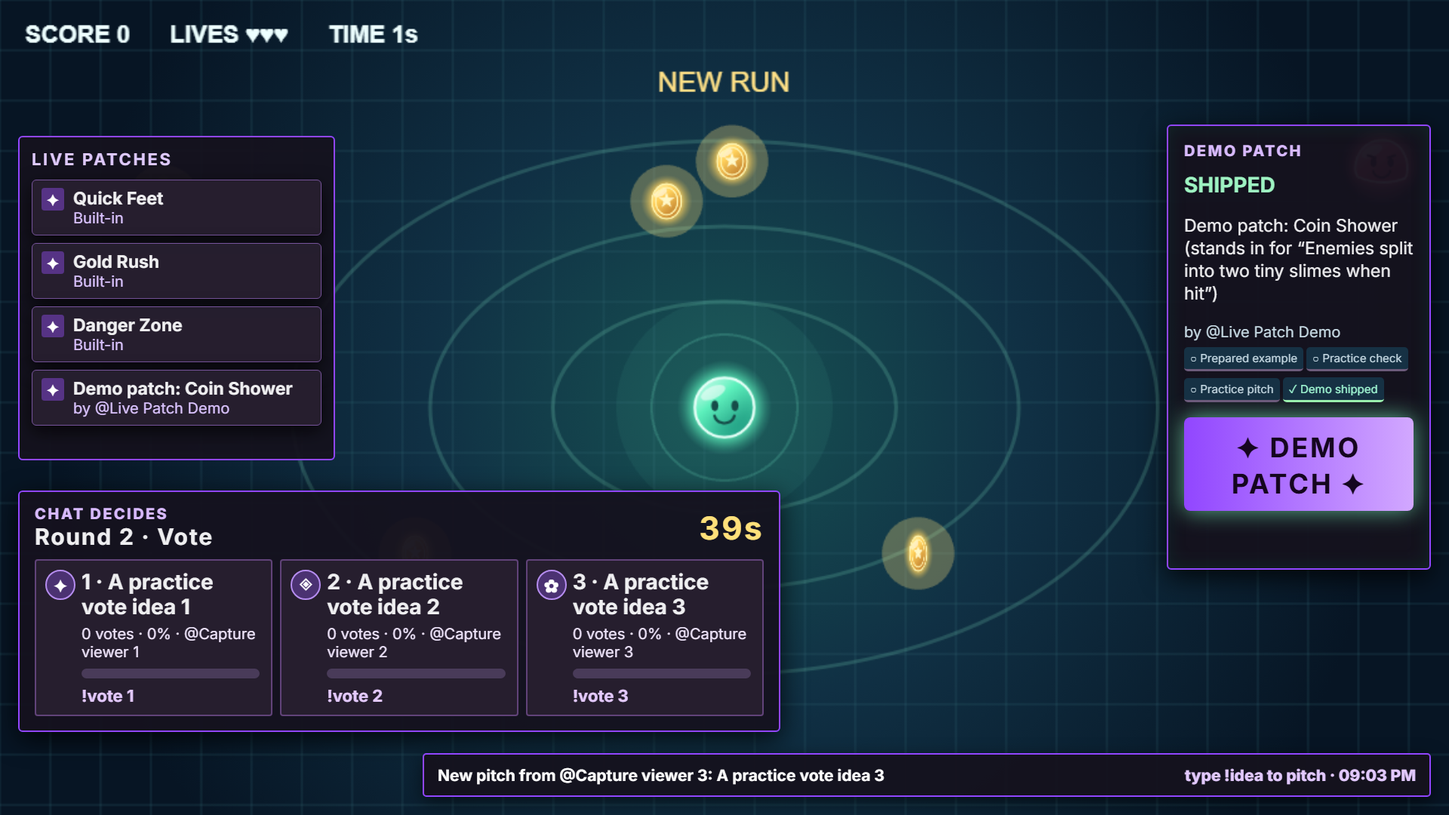
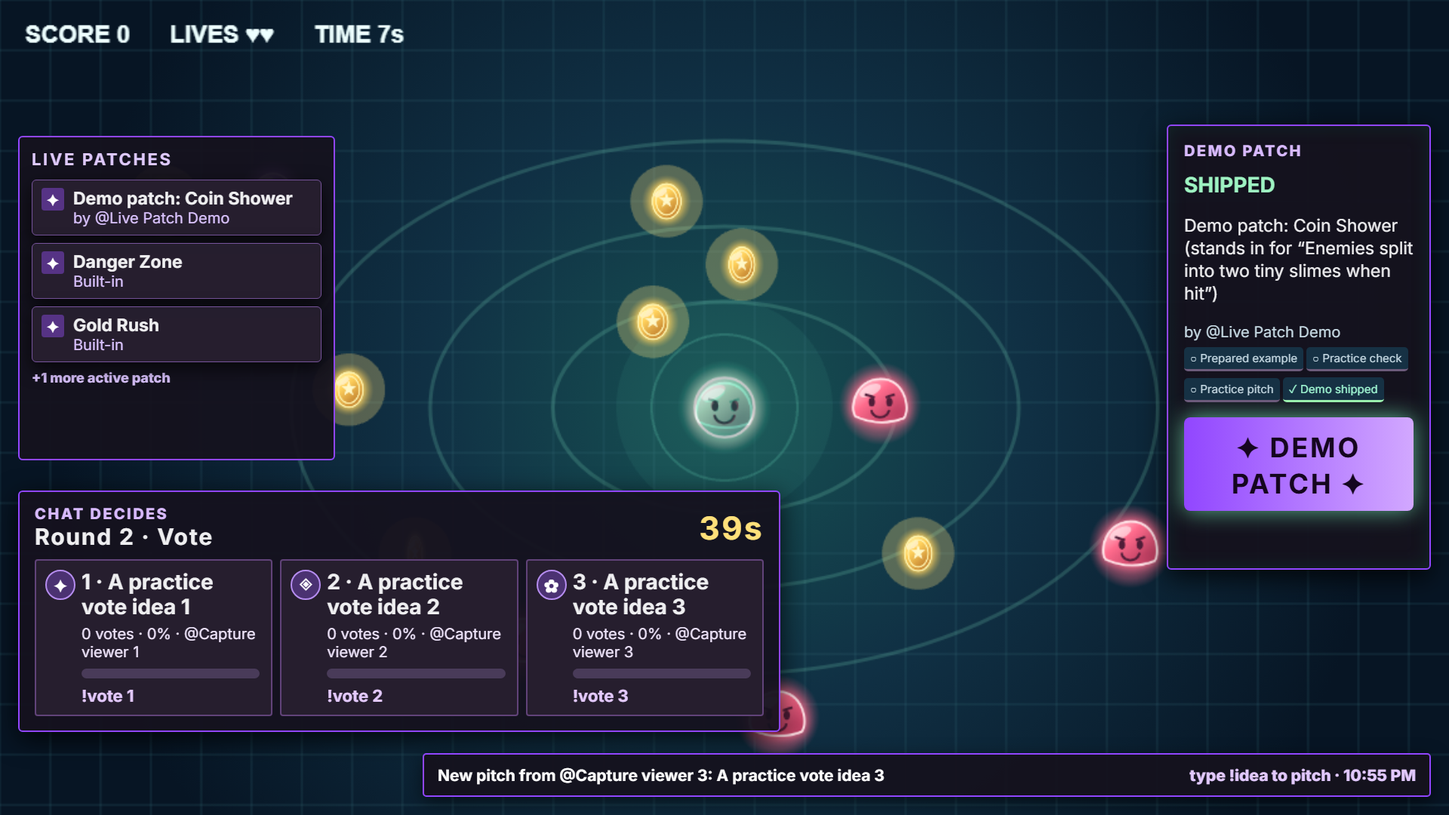
phase 5.5: fixes for round 2

diff --git a/games/arena-survivor/tests/smoke/smoke.spec.ts b/games/arena-survivor/tests/smoke/smoke.spec.ts
@@ -4,7 +4,7 @@ import path from 'node:path';
 
 const fallback = (JSON.parse(fs.readFileSync(path.join(process.cwd(), 'package.json'), 'utf8')) as { livePatch: { defaultGame: string } }).livePatch.defaultGame;
 const gameDirectory = process.env.LIVE_PATCH_TEST_GAME_DIR || path.resolve(process.cwd(), process.env.LIVE_PATCH_GAME || fallback);
-const manifest = JSON.parse(fs.readFileSync(path.join(gameDirectory, 'live-patch.json'), 'utf8')) as { mutationDir: string };
+const manifest = JSON.parse(fs.readFileSync(path.join(gameDirectory, 'live-patch.json'), 'utf8')) as { mutationDir: string; demoMutation?: string };
 const mutationDir = path.join(gameDirectory, manifest.mutationDir);
 const examples = fs.readdirSync(mutationDir).filter(name => name.endsWith('.js'));
 const chosen = process.env.MUTATION_FILE ? path.basename(process.env.MUTATION_FILE) : undefined;
@@ -33,6 +33,40 @@ test('Play fills a 16:9 game capture without cutting off the arena', async ({ pa
   expect(box!.y).toBeLessThan(10);
 });
 
+test('visible Play controls stay in the right corner clear of the HUD and ship toast', async ({ page }) => {
+  await page.setViewportSize({ width: 1920, height: 1080 });
+  await page.goto('/play');
+  await expect(page.locator('#status')).toContainText('LIVE');
+  await page.evaluate(() => { document.querySelector<HTMLElement>('#play-toast')!.textContent = 'New patch: Example — by @viewer'; });
+  await page.mouse.move(960, 540);
+  await expect(page.locator('#play-shell')).not.toHaveClass(/stream-clean/);
+  const tools = await page.locator('.play-tools').boundingBox();
+  const toast = await page.locator('#play-toast').boundingBox();
+  expect(tools).toBeTruthy(); expect(toast).toBeTruthy();
+  expect(tools!.x).toBeGreaterThanOrEqual(1480);
+  expect(tools!.x + tools!.width).toBeLessThanOrEqual(1896);
+  expect(tools!.x).toBeGreaterThan(430);
+  expect(tools!.x >= toast!.x + toast!.width || toast!.x >= tools!.x + tools!.width || tools!.y >= toast!.y + toast!.height || toast!.y >= tools!.y + tools!.height).toBe(true);
+});
+
+test('Library patch count and details rows reflect the active game', async ({ page }) => {
+  await page.setViewportSize({ width: 1920, height: 1080 });
+  await page.goto('/?view=library');
+  await expect(page.locator('.library-patch-count').first()).toBeVisible();
+  const expected = await page.evaluate(() => fetch('/api/library').then(response => response.json()).then(data => data.games[0].activePatches));
+  await expect(page.locator('.library-patch-count').first()).toHaveText(`${expected} patch${expected === 1 ? '' : 'es'} active`);
+  const geometry = await page.evaluate(() => {
+    const summary = document.querySelector('.library-detail-row summary')!.getBoundingClientRect();
+    const cover = document.querySelector('.library-cover')!.getBoundingClientRect();
+    const star = document.querySelector('.library-star')!.getBoundingClientRect();
+    return { summaryHeight: summary.height, cover, star };
+  });
+  expect(geometry.summaryHeight).toBeLessThan(40);
+  expect(geometry.star.left).toBeGreaterThanOrEqual(geometry.cover.left);
+  expect(geometry.star.right).toBeLessThanOrEqual(geometry.cover.right);
+  expect(geometry.star.top).toBeGreaterThanOrEqual(geometry.cover.top);
+});
+
 test('OBS widgets can be removed, added and resized across reloads', async ({ page }) => {
   await page.goto('/?view=go-live');
   await page.getByRole('link', { name: /Customize OBS overlay/ }).click();
@@ -55,6 +89,21 @@ test('OBS widgets can be removed, added and resized across reloads', async ({ pa
     finally { await overlay.close(); }
   } finally {
     await page.evaluate(widgets => fetch('/api/settings', { method: 'POST', headers: { 'Content-Type': 'application/json' }, body: JSON.stringify({ overlayWidgets: widgets }) }), original);
+  }
+});
+
+test('stream patch card shows newest entries and counts those that do not fit', async ({ page }) => {
+  const first = path.join(mutationDir, '98-overlay-a.js');
+  const second = path.join(mutationDir, '99-overlay-b.js');
+  try {
+    fs.writeFileSync(first, "export const meta={id:'overlay-a',title:'Overlay A',author:'test',description:'First extra patch'};");
+    fs.writeFileSync(second, "export const meta={id:'overlay-b',title:'Overlay B',author:'test',description:'Second extra patch'};");
+    await page.goto('/overlay.html');
+    await expect(page.locator('#patches .patch-more')).toContainText('+2 more active patches');
+    await expect(page.locator('#patches .patch')).toHaveCount(3);
+    await expect(page.locator('#patches .patch').first()).toContainText('Overlay B');
+  } finally {
+    fs.rmSync(first, { force: true }); fs.rmSync(second, { force: true });
   }
 });
 
@@ -157,10 +206,33 @@ test('Practice can run a round and ship a labelled demo without Codex', async ({
   await page.goto('/play');
   await expect(page.locator('#mutations')).toContainText('Demo patch: Coin Shower · active');
   await expect(page.locator('#play-toast')).toContainText('Demo patch: Coin Shower');
-  await expect.poll(() => page.evaluate(() => (window as any).__livePatch.game.snapshot().coins)).toBeGreaterThan(5);
+  await expect.poll(() => page.evaluate(() => (window as any).__livePatch.game.snapshot().coins)).toBeGreaterThan(8);
+  await expect(page.locator('#mutations')).not.toContainText('actions skipped');
   const rollback = await page.evaluate(() => fetch('/api/control', { method: 'POST', headers: { 'Content-Type': 'application/json' }, body: JSON.stringify({ action: 'rollback' }) }).then(r => r.json()));
   expect(rollback.accepted).toBe(true);
   await expect(page.locator('#mutations')).not.toContainText('Demo patch: Coin Shower · active');
+});
+
+test('Practice announcement uses a different game demo title from module metadata', async ({ page }) => {
+  expect(manifest.demoMutation).toBeTruthy();
+  const file = path.join(gameDirectory, manifest.demoMutation!);
+  const original = fs.readFileSync(file, 'utf8');
+  try {
+    fs.writeFileSync(file, original.replace("title: 'Demo patch: Coin Shower'", "title: 'Demo patch: Fire Rain'"));
+    await page.goto('/?view=practice');
+    await page.getByRole('button', { name: 'Run a full round automatically' }).click();
+    await expect(page.locator('#demo-ship')).toBeVisible({ timeout: 15_000 });
+    await page.locator('#demo-ship').click();
+    await expect(page.locator('#practice-chat')).toContainText('Demo patch: Fire Rain', { timeout: 15_000 });
+    const data = await page.evaluate(async () => ({ runs: await fetch('/api/runs').then(r => r.json()), events: await fetch('/api/runner-events').then(r => r.json()) }));
+    const run = data.runs.runs.at(-1);
+    expect(run.mutationTitle).toBe('Demo patch: Fire Rain');
+    expect(data.events.events.some((event: any) => event.runId === run.id && event.message?.includes('Demo patch: Fire Rain'))).toBe(true);
+    await page.goto('/overlay.html');
+    await expect(page.locator('#work')).toContainText('Demo patch: Fire Rain');
+  } finally {
+    fs.writeFileSync(file, original);
+  }
 });
 
 test('Go Live can remove Practice demo patches before a stream', async ({ page }) => {

diff --git a/engine/overlay/library.ts b/engine/overlay/library.ts
@@ -2,7 +2,7 @@ import '../app.css';
 import './library-polish.css';
 import { appendText } from './shared';
 
-interface GameCard { directory: string; name: string; description: string; tags: string[]; version?: string; author?: string; valid: boolean; error?: string; examples: number; smoke?: { status: string; at: string; detail?: string }; shipped: number; cover?: string; hooks?: string[]; actions?: string[]; controls?: { action: string; keys: string[] }[]; audio?: string[]; effects?: string[]; source?: 'built-in' | 'imported' }
+interface GameCard { directory: string; name: string; description: string; tags: string[]; version?: string; author?: string; valid: boolean; error?: string; examples: number; smoke?: { status: string; at: string; detail?: string }; shipped: number; activePatches: number; cover?: string; hooks?: string[]; actions?: string[]; controls?: { action: string; keys: string[] }[]; audio?: string[]; effects?: string[]; source?: 'built-in' | 'imported' }
 const root = document.querySelector<HTMLElement>('#library')!;
 root.innerHTML = '<div class="section-head"><div><p class="app-kicker">PICK YOUR STARTING WORLD</p><h2>Game library</h2><p class="muted">Each game brings its own mutation rules and smoke test.</p></div><label class="library-search">Search games<input id="game-search" type="search" placeholder="Search games and tags"></label></div><div class="library-layout"><div id="game-cards" class="library-grid"></div><aside id="game-detail" class="studio-card library-detail"></aside></div><dialog id="add-game-dialog"><form method="dialog"><button class="secondary">Close</button></form><h2>Add your game</h2><div class="library-actions"><form id="import-game"><label>Import a local folder<input name="directory" placeholder="D:\\my-game" required></label><button>Inspect folder</button></form><form id="new-game"><label>Start from a template<input name="name" placeholder="My new game" required maxlength="80"></label><button>Create and smoke test</button></form></div><div id="import-preview" hidden><h3>Before import</h3><p id="import-details"></p><p>This folder can run local code through its smoke-test command. Import only a folder you trust.</p><button id="confirm-import">Run smoke test and import</button></div><p id="library-notice" role="status"></p></dialog><dialog id="docs-dialog"><form method="dialog"><button class="secondary">Close</button></form><h2>Mutation API</h2><pre id="docs-text"></pre></dialog>';
 root.querySelector('.section-head')!.insertAdjacentHTML('afterend','<div class="library-toolbar"><div id="library-filters" aria-label="Filter games"><button data-filter="all" aria-pressed="true">All</button><button data-filter="ready">Ready to stream</button><button data-filter="templates">Templates</button><button data-filter="imported">Imported</button></div><label>Sort <select id="library-sort"><option value="name">Name</option><option value="shipped">Most patches</option></select></label></div>');
@@ -63,7 +63,9 @@ function showDetails(game?: GameCard) {
   ]) {
     if (['Version', 'Creator'].includes(label)) continue;
     const row = document.createElement('details'); row.className = 'library-detail-row';
-    const summary = document.createElement('summary'); summary.textContent = `${label} · ${value === 'None' || value === 'Not declared' || value === 'Unspecified' ? 0 : value.split(' · ').length}  ›`;
+    const summary = document.createElement('summary');
+    appendText(summary, 'span', label);
+    appendText(summary, 'span', `${value === 'None' || value === 'Not declared' || value === 'Unspecified' ? 0 : value.split(' · ').length}`, 'library-detail-count');
     const contents = document.createElement('p'); contents.textContent = value; row.append(summary, contents); detail.append(row);
   }
   const badges = document.createElement('div'); badges.className = 'library-badges';
@@ -93,7 +95,7 @@ function render() {
     const content = document.createElement('div'); content.className = 'library-card-content';
     appendText(content, 'small', game.directory === data.active ? 'ACTIVE GAME' : game.valid ? 'READY TO PLAY' : 'NEEDS ATTENTION', 'app-kicker');
     appendText(content, 'h3', game.name);
-    appendText(content, 'strong', `${game.shipped} patch${game.shipped === 1 ? '' : 'es'} active`, 'library-patch-count');
+    appendText(content, 'strong', `${game.activePatches} patch${game.activePatches === 1 ? '' : 'es'} active`, 'library-patch-count');
     appendText(content, 'p', game.description || game.error || 'Add a description to the game manifest.');
     appendText(content, 'small', `Manifest ${game.valid ? 'valid' : 'invalid'} · Smoke ${game.smoke?.status ?? 'not run'}${game.smoke?.at ? ` (${new Date(game.smoke.at).toLocaleString()})` : ''} · ${game.examples} example${game.examples === 1 ? '' : 's'} · ${game.shipped} shipped`);
     if (game.tags.length) { const tags = document.createElement('div'); tags.className = 'library-tags'; for (const tag of game.tags) appendText(tags, 'span', tag); content.append(tags); }

diff --git a/engine/manifest/library.ts b/engine/manifest/library.ts
@@ -2,8 +2,9 @@ import fs from 'node:fs';
 import path from 'node:path';
 import { loadGame } from './load';
 import { smoke } from '../runner/runner';
+import { validateMutation } from '../mutation/validate';
 
-export interface LibraryGame { directory: string; name: string; description: string; cover?: string; tags: string[]; version?: string; author?: string; valid: boolean; error?: string; examples: number; hooks?: string[]; actions?: string[]; controls?: { action: string; keys: string[] }[]; audio?: string[]; effects?: string[]; source?: 'built-in' | 'imported'; smoke?: { status: 'passed' | 'failed'; at: string; detail?: string }; shipped: number }
+export interface LibraryGame { directory: string; name: string; description: string; cover?: string; tags: string[]; version?: string; author?: string; valid: boolean; error?: string; examples: number; hooks?: string[]; actions?: string[]; controls?: { action: string; keys: string[] }[]; audio?: string[]; effects?: string[]; source?: 'built-in' | 'imported'; smoke?: { status: 'passed' | 'failed'; at: string; detail?: string }; shipped: number; activePatches: number }
 const safePath = (root: string, directory: string) => path.relative(root, directory).replaceAll('\\', '/');
 const readJson = <T>(file: string, fallback: T): T => fs.existsSync(file) ? JSON.parse(fs.readFileSync(file, 'utf8')) as T : fallback;
 function atomic(file: string, value: unknown) { fs.mkdirSync(path.dirname(file), { recursive: true }); const temp = `${file}.${process.pid}.tmp`; fs.writeFileSync(temp, JSON.stringify(value, null, 2), { mode: 0o600 }); fs.renameSync(temp, file); }
@@ -18,8 +19,10 @@ export function discoverGames(root: string, dataDir: string): LibraryGame[] {
     try {
       const { manifest } = loadGame(root, directory);
       const examples = manifest.examples.reduce((count, folder) => count + fs.readdirSync(path.join(directory, folder)).filter(name => name.endsWith('.js')).length, 0);
-      return { directory, name: manifest.name, description: manifest.description ?? manifest.hint, cover: `/api/library/cover?directory=${encodeURIComponent(directory)}`, tags: manifest.tags ?? [], version: manifest.version, author: manifest.author, valid: true, examples, hooks: Object.values(manifest.hooks), actions: Object.keys(manifest.actions), controls: manifest.controls, audio: manifest.audio, effects: manifest.effects, source: imports.includes(directory) ? 'imported' : 'built-in', smoke: smoke[directory], shipped: runs.filter(run => run.gameDirectory === directory && run.status === 'shipped').length };
-    } catch (error) { return { directory, name: path.basename(directory), description: '', tags: [], valid: false, error: String(error), examples: 0, smoke: smoke[directory], shipped: 0 }; }
+      const mutationDir = path.join(directory, manifest.mutationDir);
+      const activePatches = fs.readdirSync(mutationDir).filter(name => name.endsWith('.js') && fs.statSync(path.join(mutationDir, name)).isFile() && !validateMutation(fs.readFileSync(path.join(mutationDir, name), 'utf8'), manifest)).length;
+      return { directory, name: manifest.name, description: manifest.description ?? manifest.hint, cover: `/api/library/cover?directory=${encodeURIComponent(directory)}`, tags: manifest.tags ?? [], version: manifest.version, author: manifest.author, valid: true, examples, activePatches, hooks: Object.values(manifest.hooks), actions: Object.keys(manifest.actions), controls: manifest.controls, audio: manifest.audio, effects: manifest.effects, source: imports.includes(directory) ? 'imported' : 'built-in', smoke: smoke[directory], shipped: runs.filter(run => run.gameDirectory === directory && run.status === 'shipped').length };
+    } catch (error) { return { directory, name: path.basename(directory), description: '', tags: [], valid: false, error: String(error), examples: 0, smoke: smoke[directory], shipped: 0, activePatches: 0 }; }
   });
 }
 

diff --git a/engine/overlay/stream.ts b/engine/overlay/stream.ts
@@ -25,7 +25,9 @@ async function refresh() {
     document.querySelector('#clock')!.textContent = roundClock(round.remainingMs);
     const patches = document.querySelector<HTMLElement>('#patches')!; patches.replaceChildren();
     appendText(patches, 'h2', 'LIVE PATCHES', 'patch-list-title');
-    for (const mutation of mutations.filter(item => !item.error).slice(-10)) {
+    const activePatches = mutations.filter(item => !item.error).map((mutation, index) => ({ mutation, index, shippedAt: [...runs].reverse().find(item => item.status === 'shipped' && item.mutationName === mutation.name)?.finishedAt ?? '' }))
+      .sort((a, b) => b.shippedAt.localeCompare(a.shippedAt) || b.index - a.index);
+    for (const { mutation } of activePatches.slice(0, 3)) {
       const pill = document.createElement('div'); pill.className = 'patch';
       const title = /title\s*:\s*['"`]([^'"`]{1,80})/.exec(mutation.source)?.[1] ?? mutation.name;
       const run = runs.find(item => item.status === 'shipped' && item.mutationName === mutation.name);
@@ -35,13 +37,15 @@ async function refresh() {
       appendText(pill, 'strong', run?.demo && !title.toLowerCase().startsWith('demo') ? `DEMO · ${title}` : title); if (credit) appendText(pill, 'small', credit);
       patches.append(pill);
     }
+    if (activePatches.length > 3) appendText(patches, 'small', `+${activePatches.length - 3} more active patch${activePatches.length - 3 === 1 ? '' : 'es'}`, 'patch-more');
     const latest = runs.at(-1);
     const work = document.querySelector<HTMLElement>('#work')!; work.replaceChildren();
     document.querySelector('.stream-shell aside .panel-label')!.textContent = latest?.demo ? 'DEMO PATCH' : 'CODEX AT WORK';
     if (latest) {
       appendText(work, 'strong', latest.status.toUpperCase(), `run-status ${latest.status}`);
       const idea = ideas.find(item => item.id === latest.ideaId);
-      appendText(work, 'p', latest.demo ? `Demo patch: Coin Shower (stands in for “${idea?.text ?? 'a Practice idea'}”)` : idea?.spec ?? idea?.text ?? latest.mutationName ?? 'Patch run');
+      const olderDemoTitle = mutations.find(item => item.name === latest.mutationName)?.source.match(/title\s*:\s*['"`]([^'"`]{1,80})/)?.[1];
+      appendText(work, 'p', latest.demo ? `${latest.mutationTitle ?? olderDemoTitle ?? latest.mutationName ?? 'Demo patch'} (stands in for “${idea?.text ?? 'a Practice idea'}”)` : idea?.spec ?? idea?.text ?? latest.mutationName ?? 'Patch run');
       if (latest.demo) appendText(work, 'small', 'by @Live Patch Demo');
       else if (idea) appendText(work, 'small', idea.contributors?.map(name => `@${name}`).join(', ') ?? `@${idea.authorName}`);
       const steps = events.filter(event => event.runId === latest.id);

diff --git a/engine/twitch/server.ts b/engine/twitch/server.ts
@@ -27,6 +27,7 @@ import { setupChecks, sandboxSelfTest, runSandboxSetup, classifySandboxError, ty
 import { createManagedPitchReward, fetchPitchReward, refundRedemption, fulfillRedemption, type RewardState, type TwitchReward } from './rewards';
 import { RefundStore } from './refunds';
 import { validateMutation } from '../mutation/validate';
+import { mutationTitle } from '../mutation/metadata';
 import { RollbackVotes } from '../pipeline/rollback-votes';
 import { PatchPredictions } from './predictions';
 
@@ -362,6 +363,8 @@ export function configureTwitchServer(server: ViteDevServer, root: string, gameD
         const source = fs.readFileSync(sourcePath, 'utf8');
         const issue = validateMutation(source, manifest);
         if (issue) throw Error(`Demo patch failed validation: ${issue}`);
+        const demoTitle = mutationTitle(source);
+        if (!demoTitle) throw Error('Demo patch needs a literal title in exported metadata');
         const name = `demo-${randomUUID().slice(0, 8)}.js`;
         const target = path.join(mutationDir, name);
         const temporary = `${target}.${process.pid}.tmp`;
@@ -371,11 +374,11 @@ export function configureTwitchServer(server: ViteDevServer, root: string, gameD
         store.setStatus(selected.id, 'demo');
         const now = new Date().toISOString();
         const runId = randomUUID();
-        runs.upsert({ id: runId, ideaId: selected.id, gameDirectory, status: 'shipped', startedAt: now, finishedAt: now, mutationName: name, demo: true, durationMs: 0 });
+        runs.upsert({ id: runId, ideaId: selected.id, gameDirectory, status: 'shipped', startedAt: now, finishedAt: now, mutationName: name, mutationTitle: demoTitle, demo: true, durationMs: 0 });
         rounds.runFinished(selected.id);
-        const event: RunnerEvent = { runId, ideaId: selected.id, type: 'shipped', at: now, message: `Demo patch: Coin Shower (stands in for “${selected.text}”)` };
+        const event: RunnerEvent = { runId, ideaId: selected.id, type: 'shipped', at: now, message: `${demoTitle} (stands in for “${selected.text}”)` };
         progress.push(event); server.ws.send({ type: 'custom', event: 'live-patch:runner', data: event });
-        json(res, 200, { message: `Demo patch: Coin Shower (stands in for “${selected.text}”). Open Play to see it.`, name, demo: true });
+        json(res, 200, { message: `${demoTitle} (stands in for “${selected.text}”). Open Play to see it.`, name, demo: true });
       } catch (error) { json(res, 400, { error: String(error) }); }
       return;
     }

diff --git a/engine/overlay/library-polish.css b/engine/overlay/library-polish.css
@@ -19,6 +19,15 @@
 #library .library-add-icon{color:#c8a7ff;font-size:64px}
 #library .library-detail{background:#18181b;top:20px}
 #library .library-detail-row strong{color:#c4a0ff}
+#library .library-detail-row{display:block;min-width:0}
+#library .library-detail-row summary{display:flex;align-items:center;justify-content:space-between;gap:10px;white-space:nowrap;list-style:none}
+#library .library-detail-row summary::-webkit-details-marker{display:none}
+#library .library-detail-row summary::before{content:'▸';color:#c4a0ff}
+#library .library-detail-row[open] summary::before{content:'▾'}
+#library .library-detail-count{margin-left:auto;color:#c4a0ff}
+#library .library-detail-count::after{content:' ›';margin-left:8px}
+#library .library-cover .library-star{z-index:2;font-size:22px;line-height:1;top:12px;right:12px;background:#1d1727dd;border:1px solid #ffffff77}
+#library .library-cover>span:not(.library-star){font-size:80px}
 #library .library-badges span{background:#2c2040;border-color:#6c489c;color:#e2ccff}
 #library>.section-head>div{display:none}#library>.section-head{justify-content:flex-end;margin:0 0 5px}#library .library-detail{position:relative}#library .library-detail-close{position:absolute;right:12px;top:12px;z-index:2}#library .library-detail-cover{display:block;width:100%;height:180px;object-fit:cover;border-radius:4px;margin-bottom:16px}#library .library-detail-row{padding:12px;border-top:1px solid #363640}#library .library-detail-row summary{cursor:pointer;color:#e9e1f3;font-weight:700}#library .library-detail-row p{margin:8px 0;color:#bdb9c7}#library .library-card-actions{display:grid;grid-template-columns:1fr 1fr;gap:8px;margin:18px 0}#library .library-card-actions button{min-height:44px}#library .library-patch-count{display:block;color:#c9a2ff;font-size:12px}#library .library-tags{display:flex;gap:5px;flex-wrap:wrap;margin:8px 0}#library .library-tags span{padding:3px 6px;background:#30243f;color:#e2d2f3;border-radius:3px;font-size:11px}#library .library-card-footer{display:block;border-top:1px solid #383840;padding-top:8px;margin-top:12px}#library .library-cover{position:relative}#library .library-star{position:absolute;top:8px;right:10px;display:grid;place-items:center;width:30px;height:30px;border-radius:50%;background:#1d1727;color:#fff;font-size:25px}
 @media(max-width:1100px){#library .library-layout{grid-template-columns:1fr}#library .library-detail{position:static}}

diff --git a/tests/phase55.test.ts b/tests/phase55.test.ts
@@ -5,6 +5,8 @@ import os from 'node:os';
 import { SettingsStore } from '../engine/studio/settings';
 import { generatedCover } from '../engine/manifest/cover-art';
 import { practiceDemoEligible } from '../engine/twitch/practice-demo';
+import { mutationTitle } from '../engine/mutation/metadata';
+import { bannerY } from '../games/arena-survivor/src/layout';
 
 const css = fs.readFileSync(path.resolve('engine/tokens.css'), 'utf8');
 function token(name: string) { return new RegExp(`--${name}:\\s*(#[0-9a-f]{6})`, 'i').exec(css)?.[1] ?? ''; }
@@ -77,4 +79,17 @@ describe('Practice demo boundary', () => {
     expect(practiceDemoEligible('approval', [practice, { id: 'twitch' }], practice.id, false)).toBe(false);
     expect(practiceDemoEligible('approval', [practice], practice.id, true)).toBe(false);
   });
+  it('uses each game demo module title instead of an engine-owned name', () => {
+    expect(mutationTitle("export const meta = { id: 'demo', title: 'Demo patch: Fire Rain', author: 'Studio' }; export function onStart() {}"))
+      .toBe('Demo patch: Fire Rain');
+    expect(mutationTitle("export const meta = { id: 'demo', title: 'Demo patch: Moon Gravity', author: 'Studio' };"))
+      .toBe('Demo patch: Moon Gravity');
+    expect(mutationTitle("// title: 'Spoofed'\nexport const meta = { id: 'demo', author: 'Studio' };"))
+      .toBeNull();
+  });
+});
+
+it('keeps the Arena Survivor banner below the ship toast in a 1920 × 1080 capture', () => {
+  const bannerTop = (bannerY - 11) * 1080 / 648;
+  expect(bannerTop).toBeGreaterThan(170);
 });

diff --git a/games/arena-survivor/src/main.ts b/games/arena-survivor/src/main.ts
@@ -5,6 +5,7 @@ import { defaultSettings, type StudioSettings } from '../../../engine/studio/set
 import { ArenaAudio, soundEvents, type SoundEvent } from './audio';
 import { createArenaTextures } from './art';
 import { maxParticles, ParticleBudget } from './particle-budget';
+import { bannerY } from './layout';
 
 const width = 1152, height = 648;
 type Kind = 'enemy' | 'coin' | 'bomb' | 'fire';
@@ -172,7 +173,7 @@ export function createGame(parent: HTMLElement, emit: (event: GameEvent) => void
       this.pen = this.add.graphics();
       this.avatar = this.add.image(player.x, player.y, 'arena-player').setDepth(2).setDisplaySize(78, 78);
       this.hud = this.add.text(20, 16, '', { fontFamily: 'Arial', fontSize: `${settings.hudSize === 'large' ? 24 : settings.hudSize === 'small' ? 16 : 19}px`, color: '#edffff', fontStyle: 'bold' }).setDepth(2);
-      this.banner = this.add.text(width / 2, 65, '', { fontFamily: 'Arial', fontSize: '22px', color: '#ffe187', align: 'center' }).setOrigin(.5).setDepth(2);
+      this.banner = this.add.text(width / 2, bannerY, '', { fontFamily: 'Arial', fontSize: '22px', color: '#ffe187', align: 'center' }).setOrigin(.5).setDepth(2);
       this.keys = this.input.keyboard!.addKeys('W,A,S,D,UP,DOWN,LEFT,RIGHT,SPACE') as Record<string, Phaser.Input.Keyboard.Key>;
       for (let i = 0; i < 4; i++) spawn('coin', 100 + i * 225, 150 + (i % 2) * 320);
       spawn('enemy', 80, 80); spawn('enemy', 870, 555);

diff --git a/engine/overlay/shared.ts b/engine/overlay/shared.ts
@@ -5,7 +5,7 @@ export interface RoundView {
   candidates: { id: string; text: string; spec?: string; authorName: string; contributors?: string[]; votes: string[]; status: string; source?: 'chat' | 'reward'; createdAt?: string; updatedAt?: string; practice?: boolean }[];
   triagePreview?: { id: string; decision: 'accept' | 'reject' | 'merge'; spec?: string; duplicateId?: string }[];
 }
-export interface RunView { id: string; ideaId: string; status: string; mutationName?: string; threadId?: string; durationMs?: number; error?: string; demo?: boolean; startedAt?: string; finishedAt?: string }
+export interface RunView { id: string; ideaId: string; status: string; mutationName?: string; mutationTitle?: string; threadId?: string; durationMs?: number; error?: string; demo?: boolean; startedAt?: string; finishedAt?: string }
 export interface RunnerProgressView { runId: string; ideaId: string; type: string; message?: string; at: string }
 export interface MutationView { name: string; source: string; error?: string }
 import type { OverlayWidget } from '../studio/settings-defaults';

diff --git a/engine/mutation/metadata.ts b/engine/mutation/metadata.ts
@@ -1,0 +1,15 @@
+import ts from 'typescript';
+
+export function mutationTitle(source: string): string | null {
+  const tree = ts.createSourceFile('mutation.js', source, ts.ScriptTarget.ES2022, true, ts.ScriptKind.JS);
+  for (const statement of tree.statements) {
+    if (!ts.isVariableStatement(statement) || !statement.modifiers?.some(item => item.kind === ts.SyntaxKind.ExportKeyword)) continue;
+    for (const declaration of statement.declarationList.declarations) {
+      if (!ts.isIdentifier(declaration.name) || declaration.name.text !== 'meta' || !declaration.initializer || !ts.isObjectLiteralExpression(declaration.initializer)) continue;
+      const title = declaration.initializer.properties.find(item => ts.isPropertyAssignment(item) && (ts.isIdentifier(item.name) || ts.isStringLiteral(item.name)) && item.name.text === 'title');
+      if (!title || !ts.isPropertyAssignment(title) || !ts.isStringLiteralLike(title.initializer)) return null;
+      return title.initializer.text.trim() || null;
+    }
+  }
+  return null;
+}

diff --git a/engine/runner/store.ts b/engine/runner/store.ts
@@ -14,6 +14,7 @@ export interface RunRecord {
   branch?: string;
   commit?: string;
   mutationName?: string;
+  mutationTitle?: string;
   demo?: boolean;
   error?: string;
   failureKind?: 'patch' | 'infrastructure';
@@ -30,7 +31,7 @@ export function publicFailure(error?: string): string | undefined {
 }
 
 export function publicRun(record: RunRecord) {
-  return { id: record.id, ideaId: record.ideaId, status: record.status, startedAt: record.startedAt, finishedAt: record.finishedAt, durationMs: record.durationMs, threadId: record.threadId, mutationName: record.mutationName, demo: record.demo, error: publicFailure(record.error) };
+  return { id: record.id, ideaId: record.ideaId, status: record.status, startedAt: record.startedAt, finishedAt: record.finishedAt, durationMs: record.durationMs, threadId: record.threadId, mutationName: record.mutationName, mutationTitle: record.mutationTitle, demo: record.demo, error: publicFailure(record.error) };
 }
 
 export class RunStore {

diff --git a/engine/play.css b/engine/play.css
@@ -5,7 +5,7 @@ body{margin:0;overflow:hidden;background:#06131e}
 .play-shell{position:relative;width:100vw;height:100vh;max-width:none;margin:0;padding:0;overflow:hidden;background:#06131e;font-family:Inter,sans-serif}
 .play-shell #game{position:absolute;inset:0;display:flex;align-items:center;justify-content:center;border:0;border-radius:0;background:#06131e}
 .play-shell #game canvas{max-width:100vw;max-height:100vh;object-fit:contain}
-.play-top{position:absolute;inset:16px 18px auto;z-index:5;display:flex;justify-content:space-between;align-items:flex-start;pointer-events:none;transition:opacity .35s}
+.play-top{position:absolute;inset:16px 24px auto;z-index:5;display:flex;justify-content:flex-end;align-items:flex-start;pointer-events:none;transition:opacity .35s}
 .play-title{position:absolute;width:1px;height:1px;overflow:hidden;clip-path:inset(50%)}
 .play-title #status{font-size:12px;color:#e5fcff}
 .play-tools{display:flex;gap:8px;pointer-events:auto}
